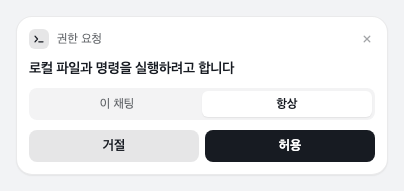
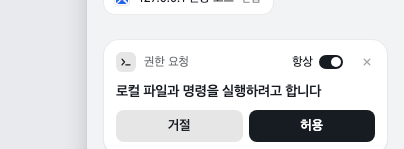
Shrink the request card scope choice to a small 항상 switch beside the close button.

diff --git a/rhwp/rhwp-studio/src/ui/agent-sidebar/request-card.ts b/rhwp/rhwp-studio/src/ui/agent-sidebar/request-card.ts
@@ -112,11 +112,6 @@ function title(request: ChatPermissionRequest): string {
   }
 }
 
-/** 모든 카드가 같은 두 이름을 쓴다. 비밀 값의 '항상'은 금고에 보관, '이 채팅'은 이 채팅 동안만 기억한다. */
-function scopeLabel(scope: ChatPermissionScope): string {
-  return scope === 'always' ? '항상' : '이 채팅';
-}
-
 export function createRequestCardController(options: RequestCardOptions) {
   const cards = new Map<string, RequestCard>();
   let connected = true;
@@ -267,47 +262,33 @@ export function createRequestCardController(options: RequestCardOptions) {
     close.disabled = !connected || card.responseId !== null;
     close.dataset.focusKey = 'close';
     close.addEventListener('click', () => respond(card, 'deny'));
+    const scope = scopeToggle(card);
+    if (scope) head.append(scope);
     head.append(close);
     return head;
   }
 
-  function scopeControl(card: RequestCard): HTMLElement | null {
+  /** 허용 범위 — 머리줄 오른쪽의 작은 '항상' 스위치. 끄면 이 채팅에만 적용된다. */
+  function scopeToggle(card: RequestCard): HTMLElement | null {
     const scopes = card.request.scopes;
-    if (!scopes || scopes.length < 2) return null;
-    const group = el('div', 'ag-request-scope');
-    group.setAttribute('role', 'radiogroup');
-    group.setAttribute('aria-label', '허용 범위');
-    const buttons: HTMLButtonElement[] = [];
-    for (const scope of scopes) {
-      const option = el('button', 'ag-request-scope-option', scopeLabel(scope));
-      option.type = 'button';
-      option.setAttribute('role', 'radio');
-      option.dataset.scope = scope;
-      const checked = card.scope === scope;
-      option.setAttribute('aria-checked', String(checked));
-      option.tabIndex = checked ? 0 : -1;
-      option.disabled = !connected || card.responseId !== null;
-      option.addEventListener('click', () => {
-        card.scope = scope;
-        for (const other of buttons) {
-          const on = other.dataset.scope === scope;
-          other.setAttribute('aria-checked', String(on));
-          other.tabIndex = on ? 0 : -1;
-        }
-      });
-      buttons.push(option);
-      group.append(option);
-    }
-    group.addEventListener('keydown', (event) => {
-      if (!['ArrowLeft', 'ArrowRight', 'ArrowUp', 'ArrowDown'].includes(event.key)) return;
-      event.preventDefault();
-      const index = buttons.findIndex((button) => button.dataset.scope === card.scope);
-      const step = event.key === 'ArrowLeft' || event.key === 'ArrowUp' ? -1 : 1;
-      const next = buttons[(index + step + buttons.length) % buttons.length]!;
-      next.click();
-      next.focus();
-    });
-    return group;
+    if (!scopes?.includes('always') || scopes.length < 2) return null;
+    const other = scopes.find((scope) => scope !== 'always')!;
+    const toggle = el('button', 'ag-request-scope');
+    toggle.type = 'button';
+    toggle.setAttribute('role', 'switch');
+    toggle.setAttribute('aria-label', '항상 허용');
+    toggle.dataset.focusKey = 'scope';
+    toggle.disabled = !connected || card.responseId !== null;
+    const sync = () => {
+      const on = card.scope === 'always';
+      toggle.setAttribute('aria-checked', String(on));
+      toggle.dataset.scope = card.scope ?? other;
+      toggle.title = on ? '모든 채팅에 적용' : '이 채팅에만 적용';
+    };
+    toggle.append(el('span', 'ag-request-scope-label', '항상'), el('span', 'ag-request-switch'));
+    toggle.addEventListener('click', () => { card.scope = card.scope === 'always' ? other : 'always'; sync(); });
+    sync();
+    return toggle;
   }
 
   function button(text: string, className: string, aria: string, disabled: boolean, click: () => void, icon?: SidebarIconName): HTMLButtonElement {
@@ -481,7 +462,6 @@ export function createRequestCardController(options: RequestCardOptions) {
       case 'browser-use-account': {
         const avatar = el('span', 'ag-request-avatar', (request.accountLabel || host || '?').slice(0, 1).toLocaleUpperCase());
         nodes.push(identityRow(avatar, request.accountLabel || host, host));
-        nodes.push(scopeControl(card));
         actions.append(deny(), primary(card, '허용', `${request.accountLabel || host} 계정 사용 허용`, !options.requestBrowser));
         break;
       }
@@ -514,19 +494,18 @@ export function createRequestCardController(options: RequestCardOptions) {
         }
         const fields = secretFields(card);
         fields.form.inert = !connected || card.responseId !== null;
-        nodes.push(originList(card), fields.form, scopeControl(card));
+        nodes.push(originList(card), fields.form);
         actions.append(deny(), primary(card, '저장', `${secretName(request)} 저장`));
         break;
       }
       case 'secret-use': {
         const mark = el('span', 'ag-request-mark');
         mark.append(createIcon('key'));
-        nodes.push(identityRow(mark, secretName(request), SECRET_KIND_LABELS[request.secretKind ?? 'other']), originList(card), scopeControl(card));
+        nodes.push(identityRow(mark, secretName(request), SECRET_KIND_LABELS[request.secretKind ?? 'other']), originList(card));
         actions.append(deny(), primary(card, '허용', `${secretName(request)} 사용 허용`, !options.requestBrowser));
         break;
       }
       default:
-        nodes.push(scopeControl(card));
         actions.append(deny(), primary(card, '허용', `${labels[request.capability]} 권한 허용. ${request.reason}`));
     }
     nodes.push(errorRow(card), actions);

diff --git a/rhwp/rhwp-studio/src/ui/agent-sidebar/request-card.css b/rhwp/rhwp-studio/src/ui/agent-sidebar/request-card.css
@@ -185,34 +185,50 @@
 
 /* 범위 고르기 */
 .ag-request-scope {
-  display: flex;
-  padding: 3px;
-  border-radius: var(--ag-r-row);
-  background: var(--ag-hover);
-}
-
-.ag-request-scope-option {
-  flex: 1;
-  min-height: 26px;
-  padding: 3px 8px;
+  display: inline-flex;
+  flex: 0 0 auto;
+  align-items: center;
+  gap: 6px;
+  height: 24px;
+  margin: -4px 0;
+  padding: 0 4px 0 6px;
   border: 0;
   border-radius: var(--ag-r-chip);
   background: transparent;
-  color: var(--ag-text-secondary);
+  color: var(--ag-text-tertiary);
   font: inherit;
   font-size: var(--ag-fs-meta);
-  cursor: default;
-  transition: var(--ag-transition-color);
+  cursor: pointer;
 }
 
-.ag-request-scope-option[aria-checked='true'] {
-  background: var(--ag-raised);
-  color: var(--ag-text);
-  font-weight: var(--ag-fw-medium);
+.ag-request-scope[aria-checked='true'] { color: var(--ag-text); }
+.ag-request-scope:disabled { opacity: .55; cursor: default; }
+.ag-request-scope:focus-visible { outline: var(--ag-focus-ring); outline-offset: 1px; }
+
+.ag-request-switch {
+  position: relative;
+  width: 24px;
+  height: 14px;
+  border-radius: var(--ag-r-pill);
+  background: var(--n-ink-quaternary);
+  transition: background-color var(--ag-dur-fast) var(--ag-ease-out);
+}
+
+.ag-request-switch::after {
+  content: '';
+  position: absolute;
+  top: 2px;
+  left: 2px;
+  width: 10px;
+  height: 10px;
+  border-radius: 50%;
+  background: var(--ag-knob, #fff);
   box-shadow: var(--n-elev-1);
+  transition: transform var(--ag-dur-fast) var(--ag-ease-out);
 }
 
-.ag-request-scope-option:disabled { opacity: .55; }
+.ag-request-scope[aria-checked='true'] .ag-request-switch { background: var(--ag-primary-bg); }
+.ag-request-scope[aria-checked='true'] .ag-request-switch::after { transform: translateX(10px); }
 
 /* 양식 — 계정 저장과 비밀 값 */
 .ag-request-form {
@@ -357,7 +373,7 @@
   .ag-request-secondary:hover:not(:disabled) { background: color-mix(in srgb, var(--ag-active) 100%, var(--ag-hover)); }
   .ag-request-close:hover:not(:disabled),
   .ag-request-reveal:hover { background: var(--ag-hover); color: var(--ag-text); }
-  .ag-request-scope-option:hover:not(:disabled):not([aria-checked='true']) { color: var(--ag-text); }
+  .ag-request-scope:hover:not(:disabled) { color: var(--ag-text); }
 }
 
 .ag-request-spinner {
@@ -414,6 +430,3 @@
 }
 
 /* 어두운 면에서는 고른 칸이 바닥보다 한 단 밝다. */
-:root[data-theme-effective='dark'] .ag-request-scope-option[aria-checked='true'] {
-  background: color-mix(in oklab, var(--ag-raised) 88%, var(--ag-text));
-}

diff --git a/rhwp/rhwp-studio/sidebar-preview/README.md b/rhwp/rhwp-studio/sidebar-preview/README.md
@@ -67,7 +67,7 @@ for layout review at other settings. Fixture controls are hidden in this mode.
 | --- | --- |
 | `?scenario=plan` | Next submitted message produces an approval plan |
 | `?scenario=question` | A question with selectable and free-text answers |
-| `?scenario=permission` (`&permissionCapability=downloads`) | A permission card with the 이 채팅 / 항상 scope choice, 거절 and 허용 |
+| `?scenario=permission` (`&permissionCapability=downloads`) | A permission card with the small 항상 switch next to ×, 거절 and 허용 |
 | `?scenario=sign-in` (`&handoff=code`) | The agent hands a sign-in (or verification code) to the user: the card shows the workbench's frame of the tab with 에이전트 대기 중; 직접 하기 (직접 입력) takes control of the tab (직접 제어 중, 탭 보기), 완료 returns it and resumes the chat |
 | `?scenario=use-account` | A saved-account card (Google 연구) with the scope choice |
 | `?scenario=save-account` | The account form inside a card: name, login, password, 저장 안 함 / 저장 |
